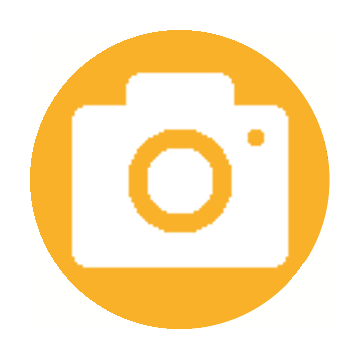
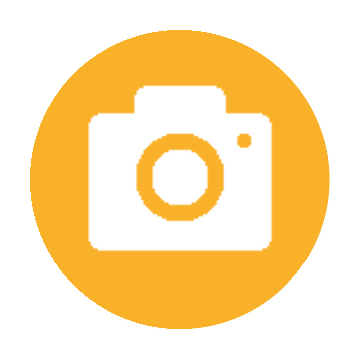
(feature/style-camera-screen) Style camera button

Changed region(s): [[0.1833, 0.1833, 0.825, 0.7639]]

diff --git a/src/components/camera.jsx b/src/components/camera.jsx
@@ -4,6 +4,8 @@ import styled from "styled-components";
 import CaptureButton from "./capture-button";
 import Container from "./container";
 
+import CameraButtonIcon from "../images/camera-button.png";
+
 import { ROUTES } from "../utils/constants";
 import { AppContext } from "../utils/context";
 
@@ -77,7 +79,7 @@ class Camera extends Component {
     render() {
        return (
            <Container>
-               <CaptureButton onClick={this.takePhoto}>Take Photo</CaptureButton>
+               <CaptureButton src={CameraButtonIcon} alt="Take Photo" onClick={this.takePhoto} />
                <Video ref={this.videoRef}></Video>
                <Canvas ref={this.canvasRef}></Canvas>
            </Container>  

diff --git a/src/components/capture-button.jsx b/src/components/capture-button.jsx
@@ -1,17 +1,19 @@
 import styled from "styled-components";
 
-const CaptureButton = styled.button`
+const CaptureButton = styled.img`
 	position: fixed;
 	left: calc(50% - 2.5rem);
 	bottom: 2rem;
-	background-color: rgba(254, 254, 254, 0.6);
+	color: var(--color-alabaster);
+	background-color: var(--color-sea-buckthorn);
+	font-weight: bold;
 	height: 5rem;
 	width: 5rem;
-	border: 0.25rem solid lightgray;
 	border-radius: 50%;
 	text-align: center;
 	cursor: pointer;
 	z-index: var(--z-index-capture-button);
+	text-shadow: 1px 2px 0.5rem var(--color-tundora);
 `;
 
 export default CaptureButton;

diff --git a/src/containers/splash-container.jsx b/src/containers/splash-container.jsx
@@ -29,7 +29,7 @@ const Title = styled.h1`
 	color: var(--color-alabaster);
 	font-size: 4rem;
 	font-family: var(--font-family-title);
-	text-shadow: 1px 2px 0.5rem #414141;
+	text-shadow: 1px 2px 0.5rem var(--color-tundora);
 	animation: ${bounce} 1s linear;
 `;
 

diff --git a/src/index.css b/src/index.css
@@ -10,6 +10,7 @@
   --color-white: #FFFFFF;
   --color-sea-buckthorn: #F9B129;
   --color-trinidad: #F44708;
+  --color-tundora: #414141;
 
   --font-family-title: "Pacifico", cursive;
   --font-family-main: "Open Sans", sans-serif;
